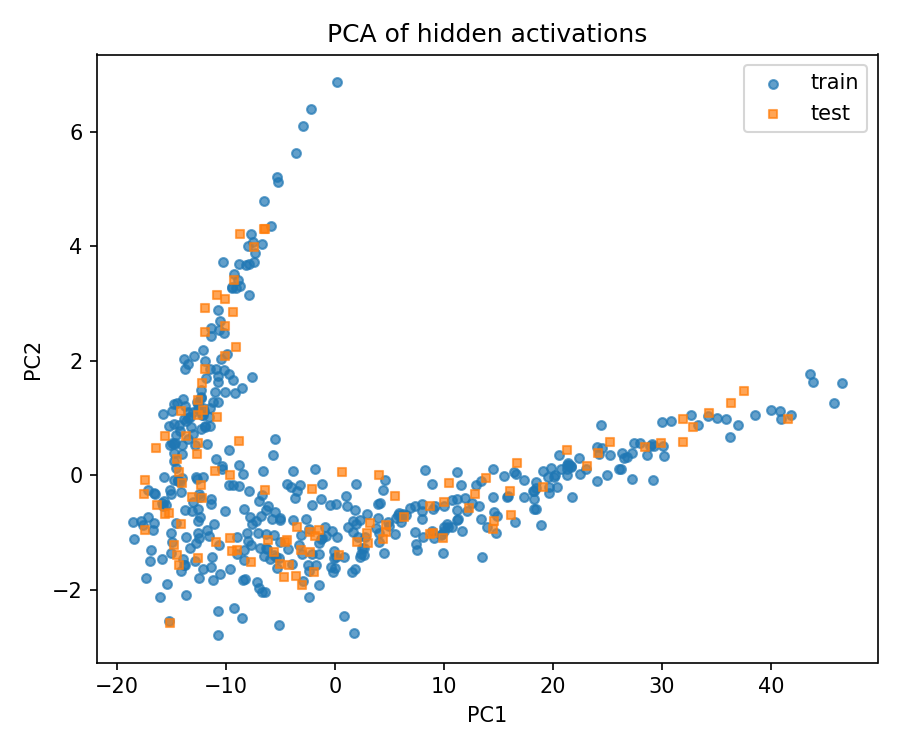
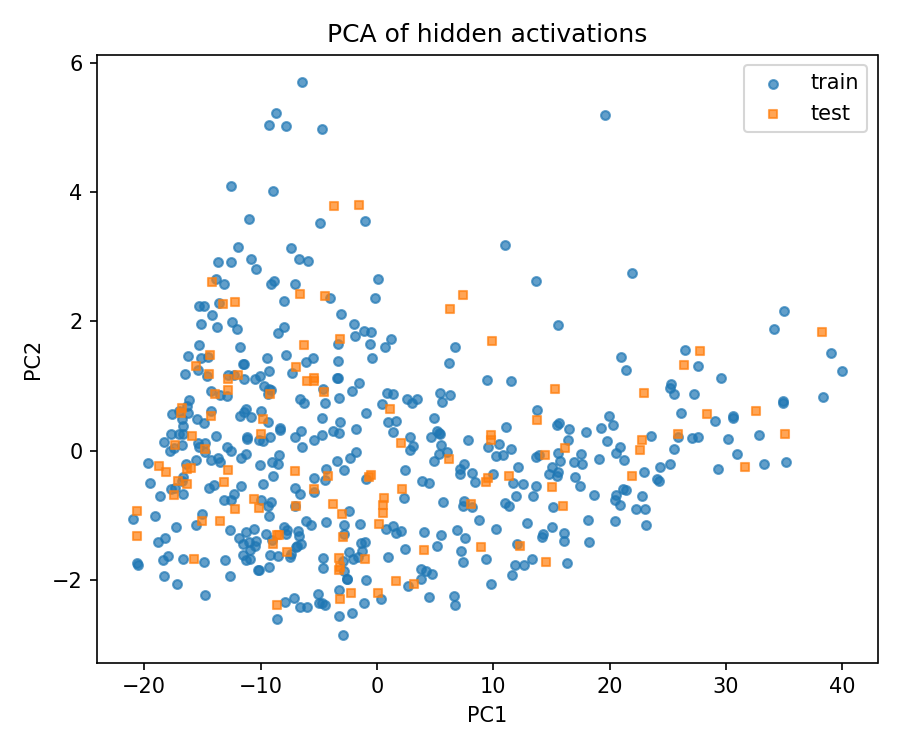
Using tensorflow documentation for lstm's, data appears to be loaded but plotting is not working as of yet.

diff --git a/lstm_tf.py b/lstm_tf.py
@@ -1,0 +1,143 @@
+import os
+import datetime
+
+import IPython
+import IPython.display
+import matplotlib as mpl
+import matplotlib.pyplot as plt
+import numpy as np
+import pandas as pd
+import seaborn as sns
+import tensorflow as tf
+
+mpl.rcParams['figure.figsize'] = (8, 6)
+mpl.rcParams['axes.grid'] = False
+
+
+#Start of code with data loaded
+df = pd.read_csv("daily_features_normalized.csv")
+df.drop('date_local', axis=1, inplace=True)
+dfy = pd.read_csv("daily_features.csv")
+dfy.drop('date_local', axis=1, inplace=True)
+
+#Data splitting
+column_indices = {name: i for i, name in enumerate(df.columns)}
+
+n = len(df)
+train_df = df[0:int(n*0.7)]
+val_df = df[int(n*0.7):int(n*0.9)]
+test_df = dfy[int(n*0.9):]
+
+num_features = df.shape[1]
+
+#Window Generation
+class WindowGenerator():
+  def __init__(self, input_width, label_width, shift,
+               train_df=train_df, val_df=val_df, test_df=test_df,
+               label_columns=None):
+    # Store the raw data.
+    self.train_df = train_df
+    self.val_df = val_df
+    self.test_df = test_df
+
+    # Work out the label column indices.
+    self.label_columns = label_columns
+    if label_columns is not None:
+      self.label_columns_indices = {name: i for i, name in
+                                    enumerate(label_columns)}
+    self.column_indices = {name: i for i, name in
+                           enumerate(train_df.columns)}
+
+    # Work out the window parameters.
+    self.input_width = input_width
+    self.label_width = label_width
+    self.shift = shift
+
+    self.total_window_size = input_width + shift
+
+    self.input_slice = slice(0, input_width)
+    self.input_indices = np.arange(self.total_window_size)[self.input_slice]
+
+    self.label_start = self.total_window_size - self.label_width
+    self.labels_slice = slice(self.label_start, None)
+    self.label_indices = np.arange(self.total_window_size)[self.labels_slice]
+
+  def __repr__(self):
+    return '\n'.join([
+        f'Total window size: {self.total_window_size}',
+        f'Input indices: {self.input_indices}',
+        f'Label indices: {self.label_indices}',
+        f'Label column name(s): {self.label_columns}'])
+
+def split_window(self, features):
+  inputs = features[:, self.input_slice, :]
+  labels = features[:, self.labels_slice, :]
+  if self.label_columns is not None:
+    labels = tf.stack(
+        [labels[:, :, self.column_indices[name]] for name in self.label_columns],
+        axis=-1)
+
+  # Slicing doesn't preserve static shape information, so set the shapes
+  # manually. This way the `tf.data.Datasets` are easier to inspect.
+  inputs.set_shape([None, self.input_width, None])
+  labels.set_shape([None, self.label_width, None])
+
+  return inputs, labels
+
+
+#Applying window generation
+window1 = WindowGenerator(input_width=6, label_width=1, 
+                          shift=1, label_columns=["tweets_total"])
+
+WindowGenerator.split_window = split_window
+
+# Stack three slices, the length of the total window.
+example_window = tf.stack([np.asarray(train_df[:window1.total_window_size]).astype('float32'),
+                           np.array(train_df[100:100+window1.total_window_size]),
+                           np.array(train_df[200:200+window1.total_window_size])])
+
+example_inputs, example_labels = window1.split_window(example_window)
+
+print('All shapes are: (batch, time, features)')
+print(f'Window shape: {example_window.shape}')
+print(f'Inputs shape: {example_inputs.shape}')
+print(f'Labels shape: {example_labels.shape}')
+
+#Plot windows
+window1.example = example_inputs, example_labels
+def plot(self, model=None, plot_col='tweets_total', max_subplots=3):
+  inputs, labels = self.example
+  plt.figure(figsize=(12, 8))
+  plot_col_index = self.column_indices[plot_col]
+  max_n = min(max_subplots, len(inputs))
+  for n in range(max_n):
+    plt.subplot(max_n, 1, n+1)
+    plt.ylabel(f'{plot_col} [normed]')
+    plt.plot(self.input_indices, inputs[n, :, plot_col_index],
+             label='Inputs', marker='.', zorder=-10)
+
+    if self.label_columns:
+      label_col_index = self.label_columns_indices.get(plot_col, None)
+    else:
+      label_col_index = plot_col_index
+
+    if label_col_index is None:
+      continue
+
+    plt.scatter(self.label_indices, labels[n, :, label_col_index],
+                edgecolors='k', label='Labels', c='#2ca02c', s=64)
+    if model is not None:
+      predictions = model(inputs)
+      plt.scatter(self.label_indices, predictions[n, :, label_col_index],
+                  marker='X', edgecolors='k', label='Predictions',
+                  c='#ff7f0e', s=64)
+
+    if n == 0:
+      plt.legend()
+
+  plt.xlabel('Time [h]')
+
+WindowGenerator.plot = plot
+window1.plot()
+
+
